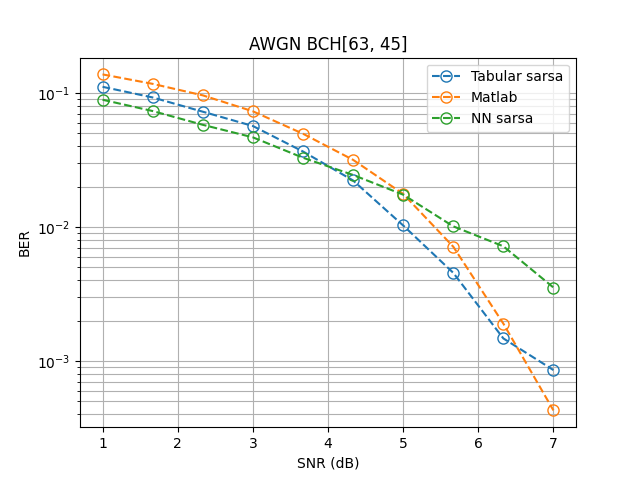
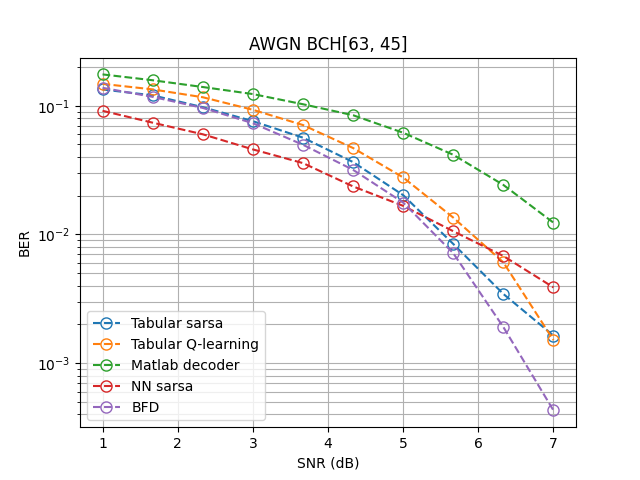
April4th
new plots

Changed region(s): [[0.0625, 0.125, 0.9062, 0.875], [0.8125, 0.4062, 0.8438, 0.4375]]

diff --git a/bf_env.py b/bf_env.py
@@ -36,16 +36,16 @@ class BitFlippingEnv(gym.Env):
         self.state = tuple(self.code.syndrome(self.z))
         if self.channel_type == 'BSC':
             llr = np.log((1 - self.noise) / self.noise) * self.z
-        # elif self.channel_type == 'AWGN':
+        elif self.channel_type == 'AWGN':
             # LLR: 
             #   - +ve value = more likely to be a zero
             #   - -ve value = more likely to be a one
             #   - smaller magnitude = less confident (we should flip)
 
-            # self.sigma2 = 1/(2*self.r*10**(self.noise/10))
-            # llr = 2*self.z_double/self.sigma2 # LLRs
+            self.sigma2 = 1/(2*self.r*10**(self.noise/10))
+            llr = 2*self.z_double/self.sigma2 # LLRs
             
-        # self.llr_avg = np.abs(llr)
+        self.llr_avg = np.abs(llr)
         return self.state
 
     def step(self, action):
@@ -59,21 +59,21 @@ class BitFlippingEnv(gym.Env):
         # Method used in paper (need to review):
         if self.channel_type == 'BSC':
             llr = np.log((1 - self.noise) / self.noise) * self.z
-        # elif self.channel_type == 'AWGN':
+        elif self.channel_type == 'AWGN':
             # if the bit we flipped has a postive LLR then it is a zero
             # if the bit we flipped has a negative LLR then it is a one
             # BPSK: {0, 1} -> {1, -1}
-            # newbit = 1 if np.sign(self.z_double[action]) > 0 else -1
-            # self.z_double[action] = newbit
-            # llr = 2*self.z/self.sigma2 # LLRs
+            newbit = 1 if np.sign(self.z_double[action]) > 0 else -1
+            self.z_double[action] = newbit
+            llr = 2*self.z/self.sigma2 # LLRs
 
 
-        # self.llr_avg = (self.num_actions*self.llr_avg + np.abs(llr)) / (self.num_actions + 1)
-        # self.path_penalty = - self.llr_avg / (10*np.mean(self.llr_avg))
+        self.llr_avg = (self.num_actions*self.llr_avg + np.abs(llr)) / (self.num_actions + 1)
+        self.path_penalty = - self.llr_avg / (10*np.mean(self.llr_avg))
 
-        reward = -1/10
+        # reward = -1/10
         done = self.num_actions == 10 or np.all(self.state == 0)
-        # reward = self.path_penalty[action]
+        reward = self.path_penalty[action]
 
         if np.all(self.state == 0):
             reward += 1

diff --git a/main.py b/main.py
@@ -181,7 +181,7 @@ def BHC_AWGN():
     dB_range = np.linspace(1, 7, 10) # testing noise
 
     # saving
-    figure_name = "BER_sarsa_" + code_type + "_" + code_label[0] + "_" + code_label[1] + "_" + channel +"_newreward"
+    figure_name = "BER_sarsa_" + code_type + "_" + code_label[0] + "_" + code_label[1] + "_" + channel
 
     # tabular setting
     agent_tabular = BCH_agent()
@@ -221,7 +221,7 @@ def RM_AWGN():
     dB_range = np.linspace(1, 7, 10) # testing noise
 
     # saving
-    figure_name = "BER_sarsa_" + code_type + "_" + code_label[0] + "_" + code_label[1] + "_" + channel + "_newreward"
+    figure_name = "BER_sarsa_" + code_type + "_" + code_label[0] + "_" + code_label[1] + "_" + channel
 
     # tabular setting
     agent_tabular = RM_agent(code_label)
